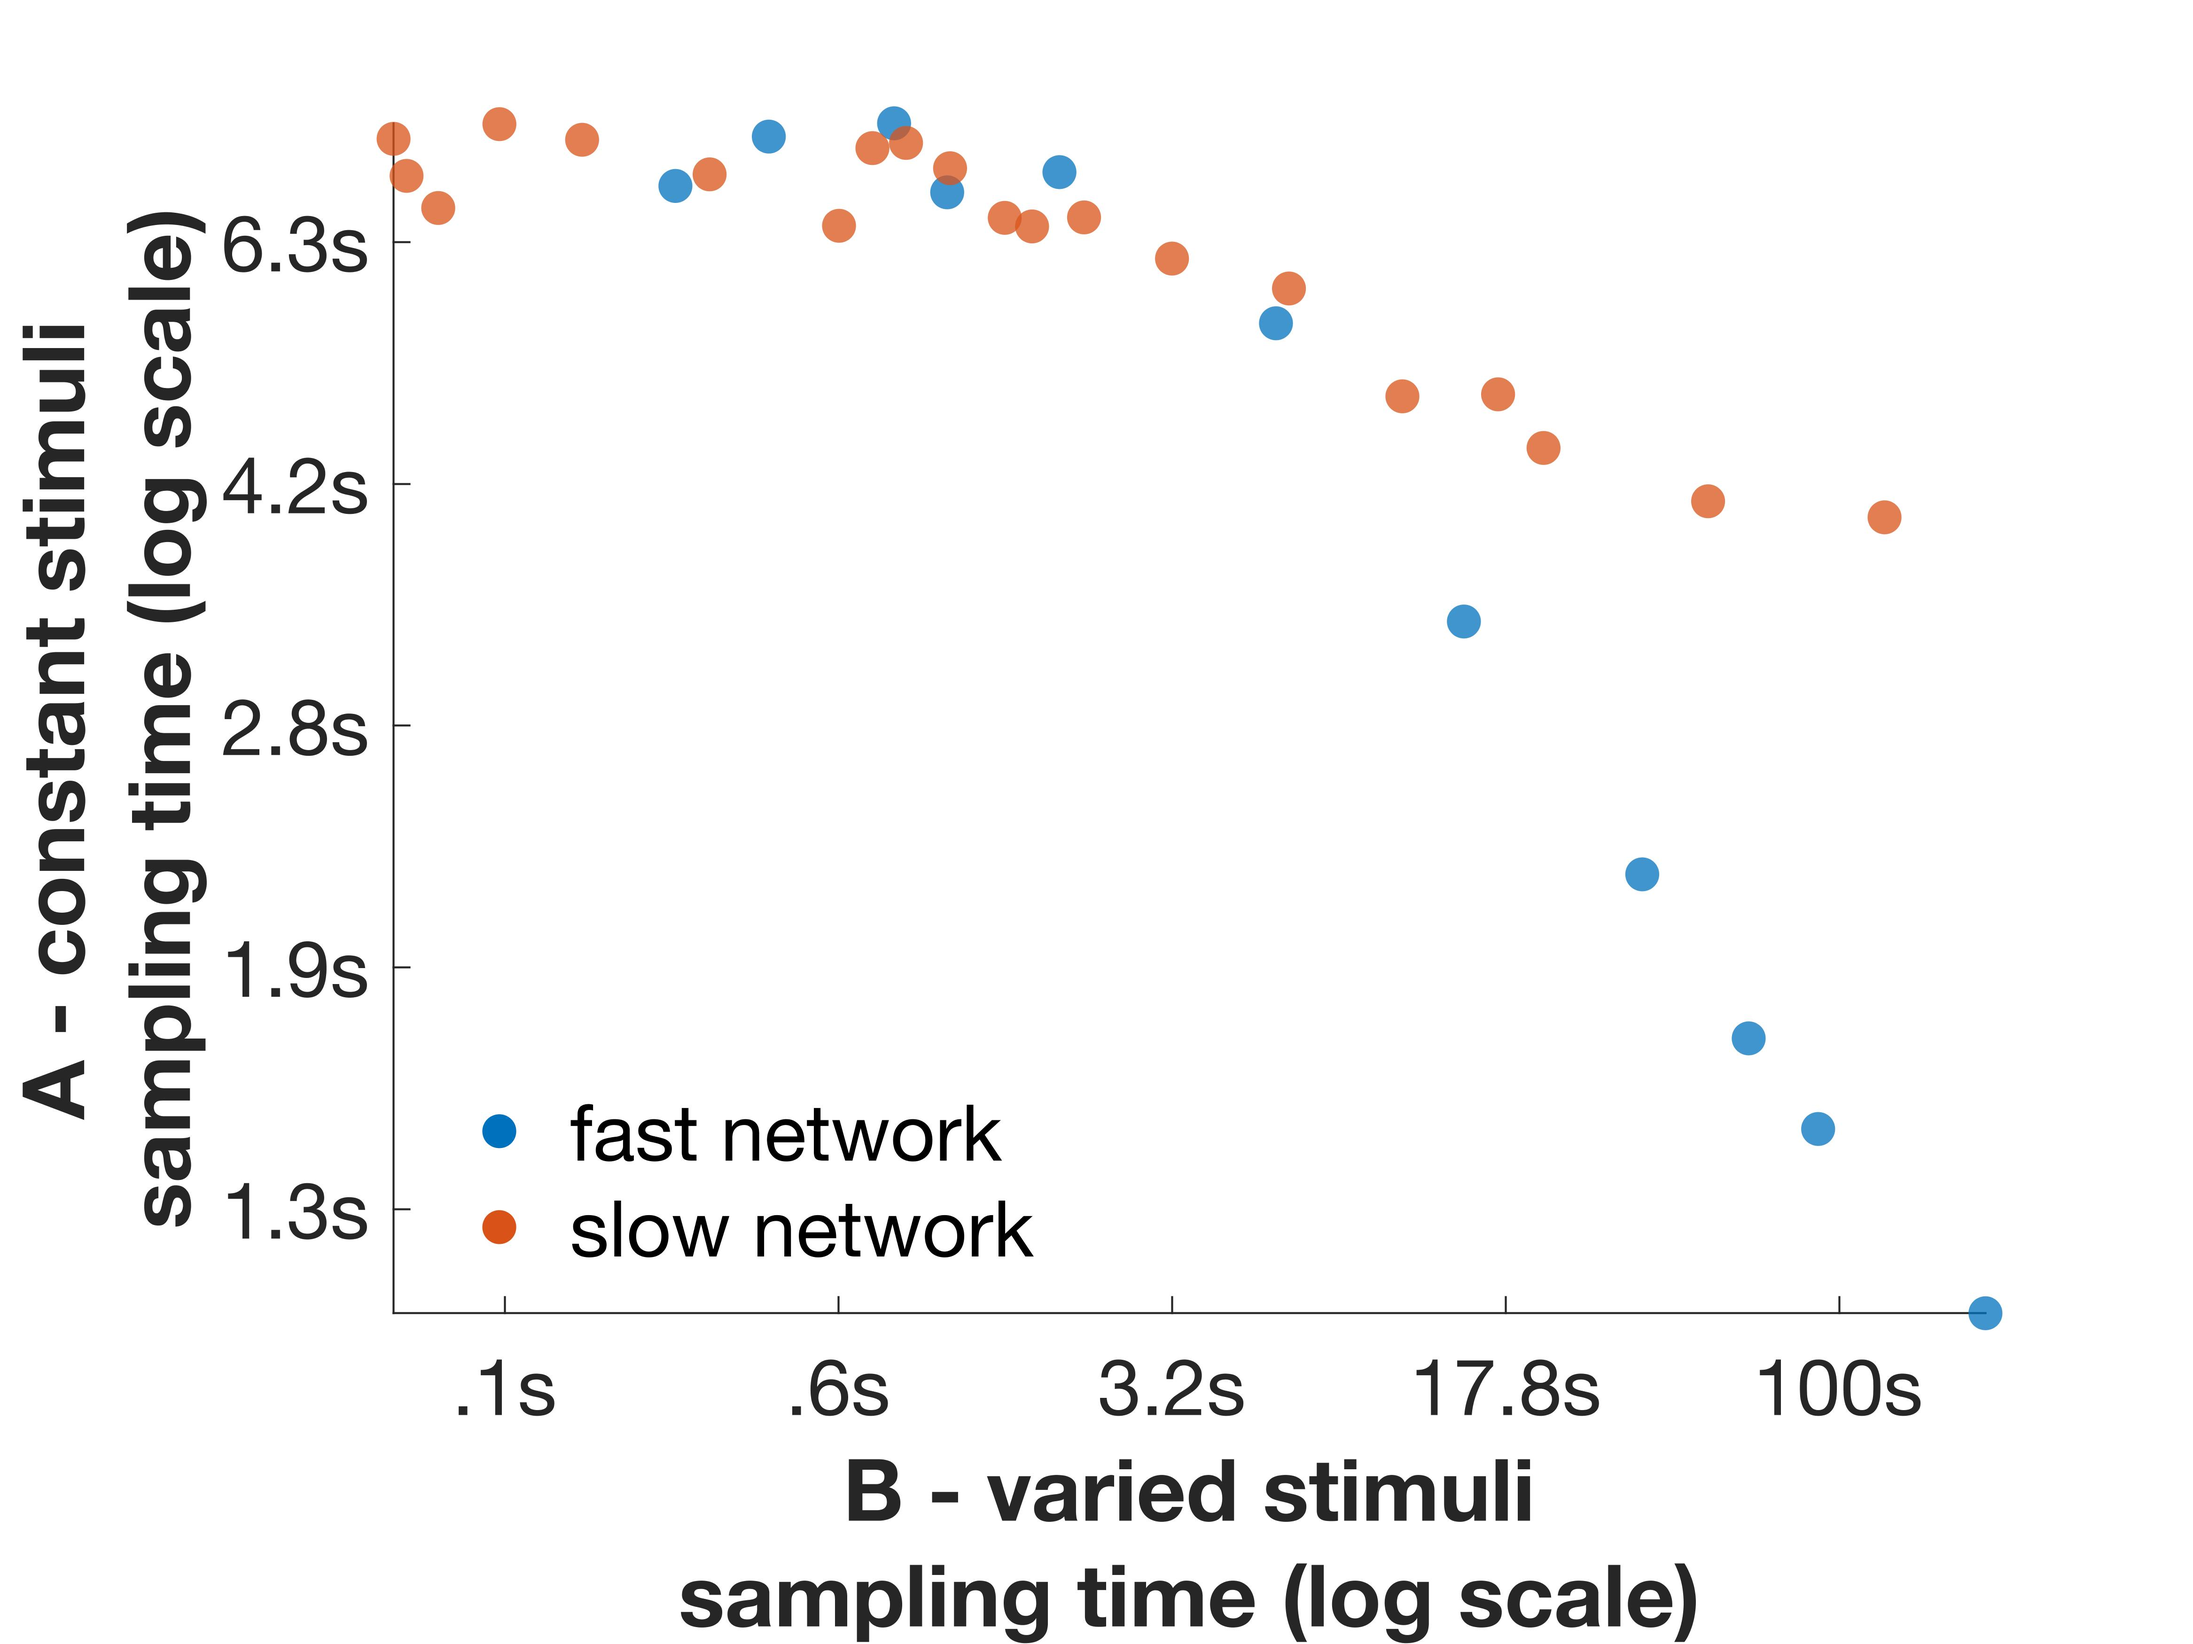
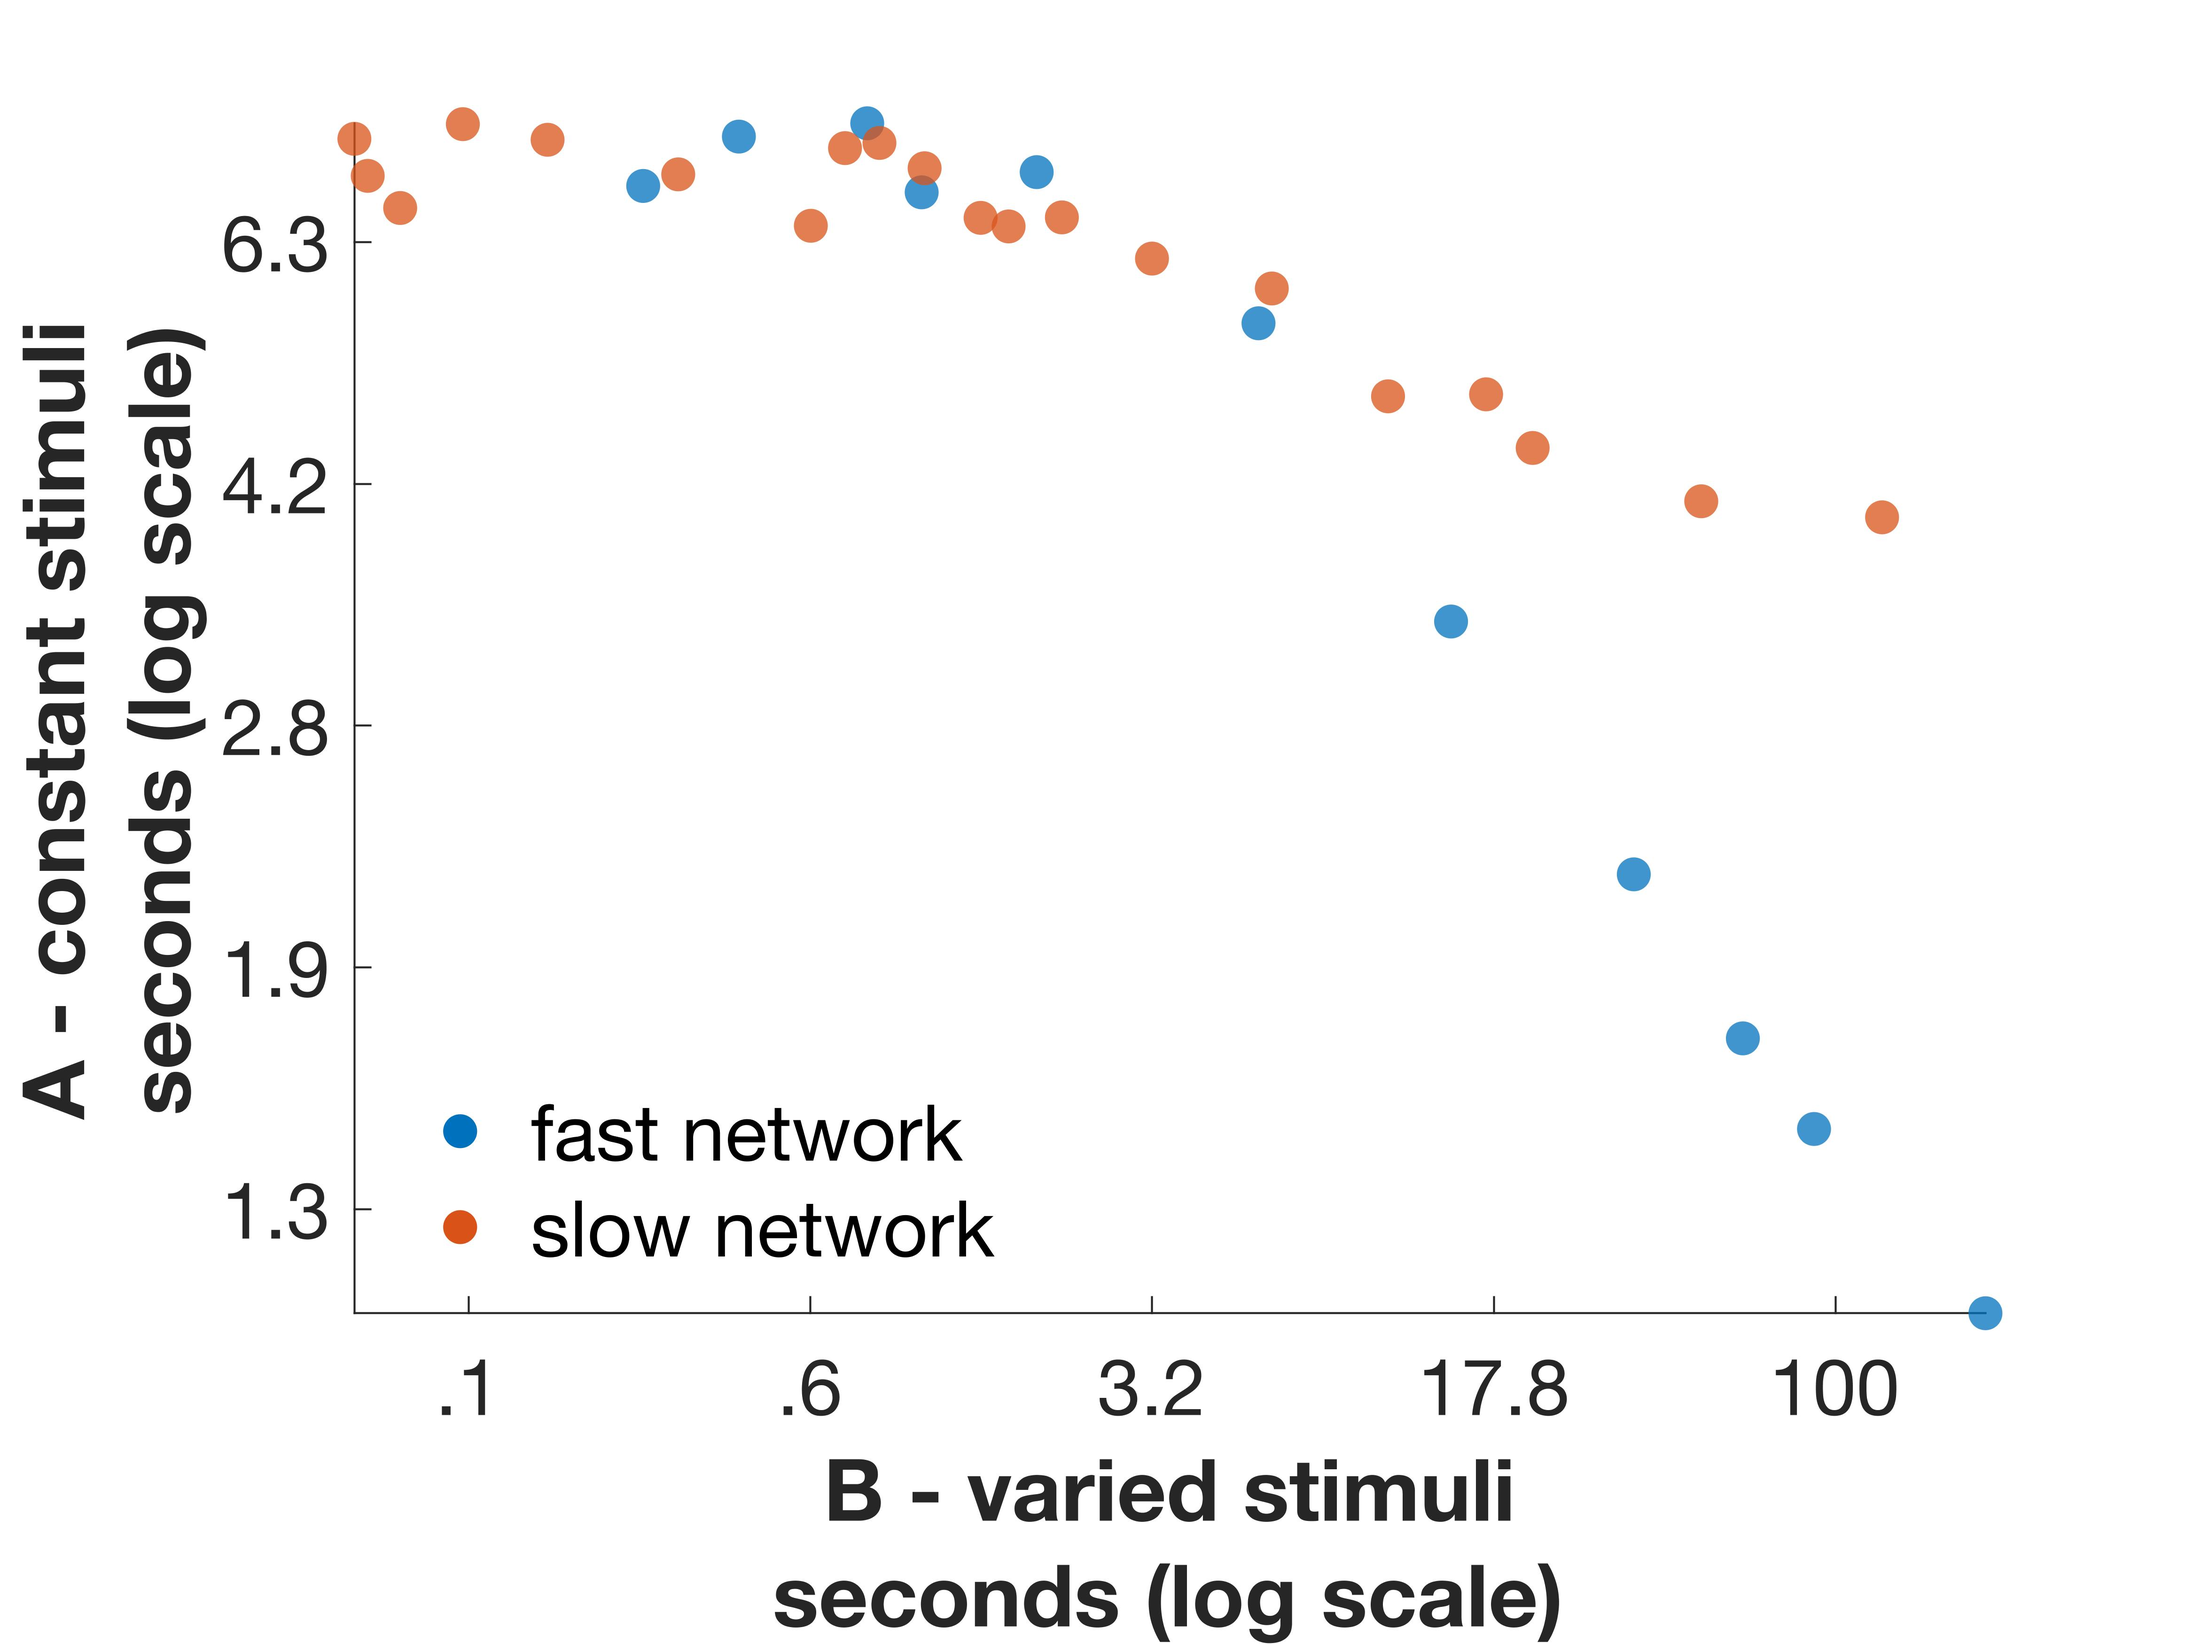
figure work

diff --git a/inspect_results/multiple_networks/stimulus_preference_schwartzreport.m b/inspect_results/multiple_networks/stimulus_preference_schwartzreport.m
@@ -420,7 +420,7 @@ switch outcome_stat
         Zlabel =  sprintf('median sampling (%s)',unit_measure);
         fig_fn = [fig_fn,'_med'];
     case 'logmu'
-        Zlabel = sprintf('log_{10}(%s) sampling',unit_measure);
+        Zlabel = 'seconds (log scale)';
         fig_fn = [fig_fn,'_log'];
     case 'logmed'
         Zlabel = sprintf('med. log_{10}(%s) sampling',unit_measure);
@@ -439,10 +439,11 @@ BLcol = [103 115 122] ./ 255;
 SPdata = []; %for scatter plot data
 h = [];
 plt_idx = 0;
+figure;orient tall
 for idx = 1:num_pairs
     
     curr_net_info = network_pair_info{idx};
-    for j = 1:2
+    for j = 2:-1:1 %match the fast, slow ordering in other figures...   
         
         plt_idx = plt_idx + 1;
         h(plt_idx) = subplot(ceil(num_net_types/2),2,plt_idx);
@@ -490,19 +491,19 @@ for idx = 1:num_pairs
         base_stim = curr_net_info.stim_A(j);
         Xvals = curr_data.stim_B ./ base_stim;
         
-        plot(Xvals,curr_data.data_A,'LineWidth',3)
+        plot(Xvals,curr_data.data_A,'-o','LineWidth',2)
         hold on
-        plot(Xvals,curr_data.data_B,'LineWidth',3)
+        plot(Xvals,curr_data.data_B,'-o','LineWidth',2)
         %xlim([min(Xvals),max(Xvals)])
-        legend_labs = {sprintf('%s: %.0f Hz','A',base_stim),...
-            sprintf('%s: varied','B')};
-        
-        sampling_change = curr_data{[1,size(curr_data,1)],{'data_A','data_B'}}; %beginning & end
-        sampling_change = diff(sampling_change);
-        %legend_labs = cellfun(@(x,y) [x '\newline\Deltay = ' sprintf('%.2f',y)],...
+        %legend_labs = {sprintf('%s: %.0f Hz','A',base_stim),...
+        %    sprintf('%s: varied','B')};
+        %sampling_change = curr_data{[1,size(curr_data,1)],{'data_A','data_B'}}; %beginning & end
+        %sampling_change = diff(sampling_change);
+        %
+        %legend_labs = cellfun(@(x,y) [x ' (\Deltay = ' sprintf('%.2f)',y)],...
         %    legend_labs,num2cell(sampling_change),'UniformOutput',false);
-        legend_labs = cellfun(@(x,y) [x ' (\Deltay = ' sprintf('%.2f)',y)],...
-            legend_labs,num2cell(sampling_change),'UniformOutput',false);
+        
+        legend_labs = {'A - constant','B - varied'};
         legend(legend_labs,'Location','best','Box','off')
         
         
@@ -511,36 +512,53 @@ for idx = 1:num_pairs
         %legend(sprintf('\\mu = %.1f',mean(curr_data)),'location','best')
         
         if plt_idx == 9 || plt_idx == 10
-            xlabel('B Hz / A Hz','FontWeight','bold')
+            xlabel('B / Hz','FontWeight','bold')
         end
         if plt_idx == 1 || plt_idx == 2
             title(sprintf('%s networks',curr_net_info.Row{j}),'FontWeight','bold','Fontsize',14)
         end
         if mod(plt_idx,2) == 1
-            ylabel(sprintf('network #%i\n%s',idx,Zlabel),'FontWeight','bold')
+            %ylabel(sprintf('network #%i\n%s',idx,Zlabel),'FontWeight','bold')
+            ylabel(Zlabel,'FontWeight','bold')
         end
         
-        %organize data for scatter plot
+        %organize data for scatter plo
         curr_data.net_index = repmat(plt_idx,size(curr_data,1),1); %index ID for scatter plot
         SPdata = [SPdata;curr_data];
     end
 end
 
-orient tall
 switch outcome_stat
     case {'logmu','logmed'}
         linkaxes(h,'y')
         linkaxes(h(1:2:end),'x');linkaxes(h(2:2:end),'x')
+        
+        for idx = 1:numel(h)
+            axes(h(idx))
+            Ytick = get(gca,'YTick');
+            %Ytick = linspace(Ytick(1),Ytick(end),5);
+            %set(gca,'YTick',Ytick)
+            Ytick = 10.^Ytick;
+            Ytick = cellfun(@(x) sprintf('%.1fs',x),num2cell(Ytick),'UniformOutput',false);
+            Ytick = strrep(Ytick,'.0s','s');
+            Ytick = strrep(Ytick,'0.','.');
+            Ytick = strrep(Ytick,'s',''); %went from "sampling" label to just seconds...
+            set(gca,'YTickLabel',Ytick);
+        end
+        
+        
     case {'mu','med'}
         linkaxes(h(1:2:end),'x');linkaxes(h(2:2:end),'x')
         %axis tight
 end
 
-% switch print_anything
-%     case 'yes'
-%         print(fullfile(figdir,fig_fn),'-djpeg')
-%         savefig(fullfile(figdir,fig_fn))
-% end
+switch print_anything
+    case 'yes'
+        set(gcf,'Renderer','painters')
+        print(fullfile(figdir,fig_fn),'-djpeg','-r600')
+        savefig(fullfile(figdir,fig_fn))
+end
+
 close all;figure;orient portrait
 %scatter plot
 alph = .75;Msz = 75;
@@ -575,8 +593,10 @@ for idx = 1:numel(SPcells)
         
         switch outcome_stat
             case 'logmu'
-                xlabel({'B - varied stimuli','sampling time (log scale)'},'FontWeight','bold')
-                ylabel({'A - constant stimuli','sampling time (log scale)'},'FontWeight','bold')
+                %xlabel({'B - varied stimuli','sampling time (log scale)'},'FontWeight','bold')
+                %ylabel({'A - constant stimuli','sampling time (log scale)'},'FontWeight','bold')
+                xlabel({'B - varied stimuli','seconds (log scale)'},'FontWeight','bold')
+                ylabel({'A - constant stimuli','seconds (log scale)'},'FontWeight','bold')
             otherwise
                 xlabel(sprintf(['B - varied [' strrep(Zlabel,' sampling','') ']']),'FontWeight','bold')
                 ylabel(sprintf(['A - constant [' strrep(Zlabel,' sampling','') ']']),'FontWeight','bold')
@@ -594,6 +614,7 @@ Xtick = 10.^Xtick;
 Xtick = cellfun(@(x) sprintf('%.1fs',x),num2cell(Xtick),'UniformOutput',false);
 Xtick = strrep(Xtick,'.0s','s');
 Xtick = strrep(Xtick,'0.','.');
+Xtick = strrep(Xtick,'s',''); %went from "sampling" label to just seconds...
 set(gca,'XTickLabel',Xtick);
 
 Ytick = get(gca,'YTick');
@@ -603,6 +624,7 @@ Ytick = 10.^Ytick;
 Ytick = cellfun(@(x) sprintf('%.1fs',x),num2cell(Ytick),'UniformOutput',false);
 Ytick = strrep(Ytick,'.0s','s');
 Ytick = strrep(Ytick,'0.','.');
+Ytick = strrep(Ytick,'s',''); %went from "sampling" label to just seconds...
 set(gca,'YTickLabel',Ytick);
 
 [~,hobj] = legend(strcat(SPcells,' network'),'Box','off','Location','southwest','FontSize',20);
@@ -686,20 +708,22 @@ for idx = 2
         %         %    legend_labs,num2cell(sampling_change),'UniformOutput',false);
         %         legend_labs = cellfun(@(x,y) [x ' (\Deltay = ' sprintf('%.2f)',y)],...
         %             legend_labs,num2cell(sampling_change),'UniformOutput',false);
-
+        
+        
         legend_labs = {'A - constant stimuli','B - varied stimuli'};
         legend(legend_labs,'Location','northwest','Box','off')
         
         
-        
         axis tight
-        %         switch curr_net_info.Row{j}
-        %             case 'slow'
-        %                 xlim([0,5])
-        %         end
-        %
+        
+        switch curr_net_info.Row{j}
+            case 'slow'
+                xlim([0,2])
+                legend(legend_labs,'Location','northeast','Box','off')
+        end
         
         
+        set(gca,'FontSize',20)
         xlabel('B / A ','FontWeight','bold')
         switch outcome_stat
             case 'logmu'
@@ -708,11 +732,26 @@ for idx = 2
                 ylabel(Zlabel,'FontWeight','bold')
         end
         title(sprintf('%s network',curr_net_info.Row{j}),'FontWeight','bold')
-        set(gca,'FontSize',20)
 
     end
 end
+
 linkaxes(h,'y')
+switch outcome_stat
+    case 'logmu'
+        for idx = 1:numel(h)
+            axes(h(idx))
+            Ytick = get(gca,'YTick');
+            Ytick = linspace(Ytick(1),Ytick(end),5);
+            set(gca,'YTick',Ytick)
+            Ytick = 10.^Ytick;
+            Ytick = cellfun(@(x) sprintf('%.1fs',x),num2cell(Ytick),'UniformOutput',false);
+            Ytick = strrep(Ytick,'.0s','s');
+            Ytick = strrep(Ytick,'0.','.');
+            Ytick = strrep(Ytick,'s',''); %went from "sampling" label to just seconds...
+            set(gca,'YTickLabel',Ytick);
+        end
+end
 
 switch print_anything
     case 'yes'

diff --git a/inspect_results/multiple_networks/stimulus_preference.m b/inspect_results/multiple_networks/stimulus_preference.m
@@ -7,6 +7,8 @@ hold off;close all
 %this function would be used for the template nets from get_network_params() and result files.
 %Put this same function in network_spiking_results, etc. Also use cellfun(@(x) isequal(x,table2cell(curr_net_info(j,:))),Psets)
 
+error('99% sure this is depreciated in favor of "schwartzreport" script"')
+
 opt = struct();
 opt.min_obs = 175; %min # of observations (states)
 opt.print_anything = 'no'; %'yes' | 'no';
